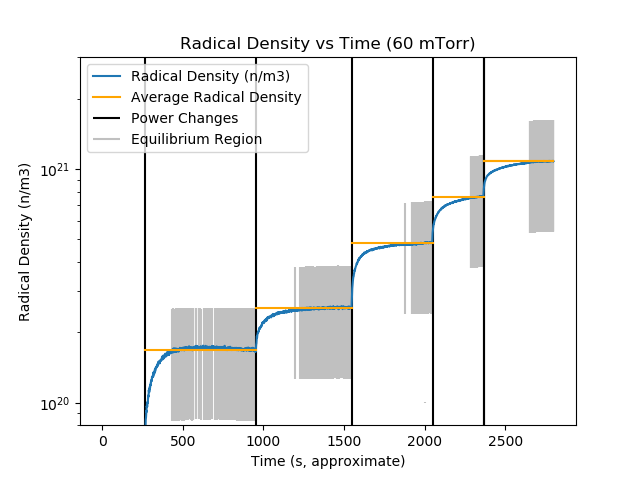
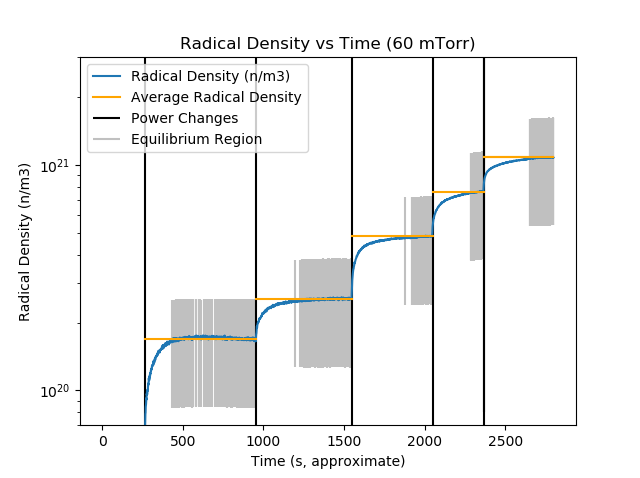
fixes

diff --git a/analysis.py b/analysis.py
@@ -4,7 +4,7 @@ import csv
 import pandas as pd
 from scipy.signal import savgol_filter
 
-filename = '070921-20mT.csv'
+filename = '070921-60mTorr.csv'
 powers = [200, 400, 600, 800, 1000]
 df = pd.read_csv(filename)
 #df.plot('Time', 'Radical Density', logy=True, ylim=(1e19, 1e21))
@@ -18,9 +18,9 @@ ax.plot(timelist, RadList, label='Radical Density (n/m3)')
 ax.set_xlabel('Time (s, approximate)')
 ax.set_ylabel('Radical Density (n/m3)')
 ax.set_yscale('log')
-ax.set_ylim([5e19, 3e21])
+ax.set_ylim([7e19, 3e21])
 
-ax.set_title('Radical Density vs Time (20 mTorr)')
+ax.set_title('Radical Density vs Time (60 mTorr)')
 
 AvgList = []
 firstatavg = []
@@ -28,7 +28,7 @@ changeslist = []
 for power in powers:
     change = timelist[PowerList.index(power)]
     changeslist.append(change)
-    ax.vlines(change, ymin=5e19, ymax=3e21)
+    ax.vlines(change, ymin=7e19, ymax=3e21)
 
 
     if power != 1000:
@@ -83,7 +83,7 @@ for i in range(len(firstatavg)):
     print(timeto)
 
 
-writerfile = '070921-20mT-Analyzed'
+writerfile = '070921-60mT-Analyzed'
 csvheader = ['Pressure', 'Power', 'Equilibrium Radical Density', 'Time to Equilibrium' ]
 
 totallist = []
